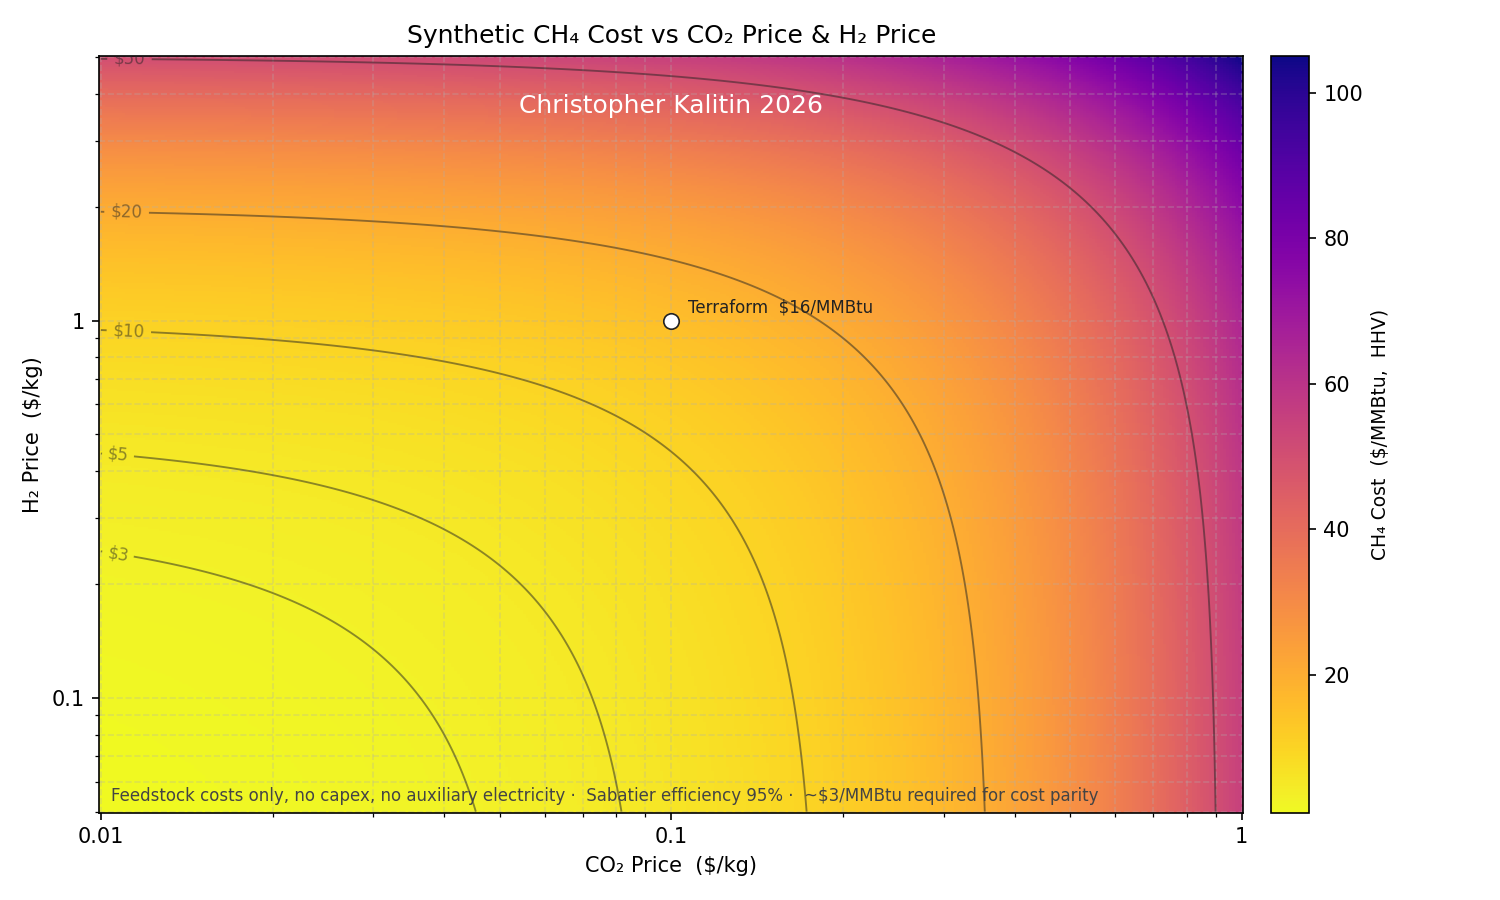
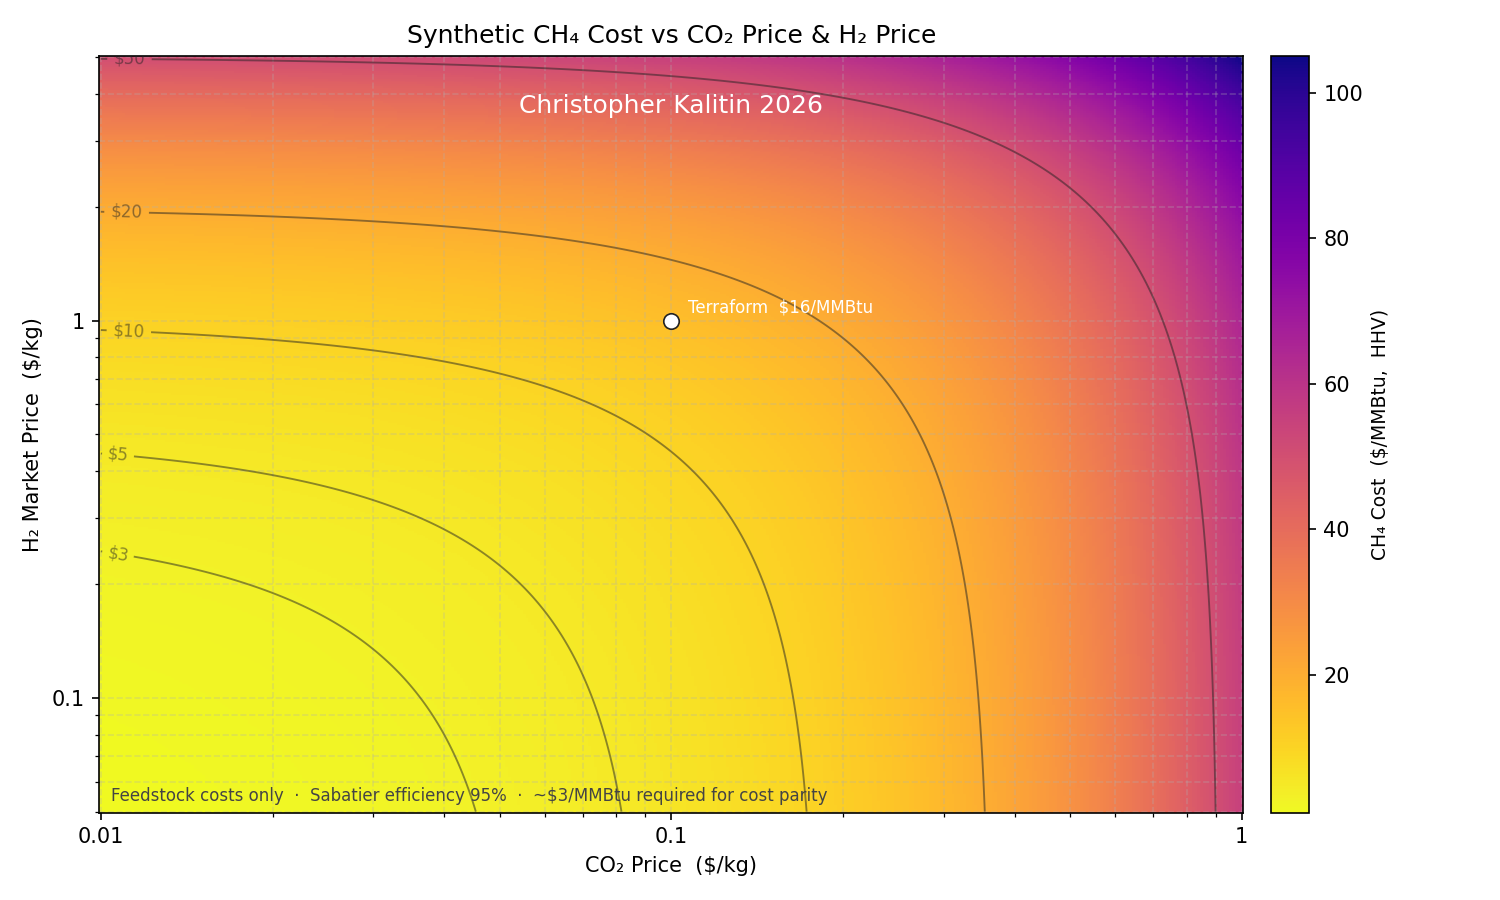
methanol is the answer

diff --git a/Terraformer-Economics/terraformer/methanol-vs-inputs-cost.py b/Terraformer-Economics/terraformer/methanol-vs-inputs-cost.py
@@ -1,10 +1,10 @@
 """
-Terraformer Cost Estimation  —  Synthetic CH4 Production Cost
-Sabatier methanation  +  green hydrogen  +  DAC-derived CO2
+Terraformer Cost Estimation  —  Synthetic Methanol Production Cost
+Direct CO2 hydrogenation  +  green hydrogen  +  DAC-derived CO2
 
-Chart: CH4 cost ($/MMBtu, HHV) heatmap over CO2 price and H2 price
+Chart: Methanol cost ($/MT) heatmap over CO2 price and H2 price
        Feedstock costs only — no capex, no auxiliary electricity
-       CO2 range: $0 – $1/kg    H2 range: $0 – $5/kg
+       CO2 range: $0.01 – $1/kg    H2 range: $0.05 – $5/kg
 """
 
 import os
@@ -17,47 +17,44 @@ os.makedirs(RESULTS_DIR, exist_ok=True)
 
 
 # ============================================================
-# PHYSICAL CONSTANTS  —  Sabatier: CO2 + 4 H2 → CH4 + 2 H2O
+# PHYSICAL CONSTANTS  —  CO2 + 3 H2 → CH3OH + H2O
 # ============================================================
-MW_CH4 = 16.0   # g/mol
-MW_CO2 = 44.0   # g/mol
-MW_H2  =  2.0   # g/mol
+MW_CH3OH = 32.0   # g/mol  (12 + 4 + 16)
+MW_CO2   = 44.0   # g/mol
+MW_H2    =  2.0   # g/mol
 
-# Stoichiometric feedstock per kg CH4 produced (from molar ratios)
-H2_STOICH_KG_PER_KG_CH4  = (4 * MW_H2) / MW_CH4   # = 0.500 kg H2  / kg CH4
-CO2_STOICH_KG_PER_KG_CH4 = MW_CO2      / MW_CH4   # = 2.750 kg CO2 / kg CH4
+# Stoichiometric feedstock per kg methanol produced (from molar ratios)
+H2_STOICH_KG_PER_KG_MEOH  = (3 * MW_H2) / MW_CH3OH   # = 0.1875 kg H2  / kg MeOH
+CO2_STOICH_KG_PER_KG_MEOH = MW_CO2      / MW_CH3OH   # = 1.3750 kg CO2 / kg MeOH
 
-# Energy unit conversion: $/kg CH4  →  $/MMBtu
-CH4_HHV_MJ_PER_KG = 55.5                              # Higher Heating Value of CH4 (MJ/kg)
-MMBTU_IN_MJ        = 1055.06                           # 1 MMBtu = 1055.06 MJ
-KG_CH4_PER_MMBTU   = MMBTU_IN_MJ / CH4_HHV_MJ_PER_KG  # = 19.01 kg CH4 / MMBtu
-# Conversion:  $/MMBtu = ($/kg CH4) × KG_CH4_PER_MMBTU
+KG_PER_MT = 1000.0   # 1 metric tonne = 1000 kg
 
 
 # ============================================================
 # PROCESS PARAMETERS
 # ============================================================
-SABATIER_EFFICIENCY = 0.95
-# Fraction of feedstock that converts to CH4.  Unreacted fraction lost.
-# actual feed = stoichiometric / SABATIER_EFFICIENCY  (+5.3% vs perfect stoich.)
+METHANOL_EFFICIENCY = 0.95
+# Fraction of feedstock that converts to methanol.  Unreacted fraction lost.
+# This is the methanol synthesis reactor step only (electrolysis not included).
+# actual feed = stoichiometric / METHANOL_EFFICIENCY  (+5.3% vs perfect stoich.)
 
 
 # ============================================================
-# COST FUNCTION  (feedstock only, $/MMBtu HHV)
+# COST FUNCTION  (feedstock only, $/MT methanol)
 # ============================================================
-def ch4_feedstock_cost_mmbtu(co2_price_kg, h2_price_kg):
+def meoh_feedstock_cost_per_mt(co2_price_kg, h2_price_kg):
     """
-    CH4 production cost from feedstocks only  ($/MMBtu, HHV).
+    Methanol production cost from feedstocks only  ($/MT methanol).
 
-    H2 term:   (H2_STOICH / eff) × h2_price      [$/kg CH4]
-    CO2 term:  (CO2_STOICH / eff) × co2_price     [$/kg CH4]
-    Sum multiplied by KG_CH4_PER_MMBTU to convert to $/MMBtu.
+    H2 term:   (H2_STOICH / eff) × h2_price      [$/kg MeOH]
+    CO2 term:  (CO2_STOICH / eff) × co2_price     [$/kg MeOH]
+    Sum multiplied by KG_PER_MT to convert to $/MT.
 
     No capex, no auxiliary electricity — pure feedstock sensitivity.
     """
-    h2_cost_kg  = h2_price_kg  * (H2_STOICH_KG_PER_KG_CH4  / SABATIER_EFFICIENCY)
-    co2_cost_kg = co2_price_kg * (CO2_STOICH_KG_PER_KG_CH4 / SABATIER_EFFICIENCY)
-    return (h2_cost_kg + co2_cost_kg) * KG_CH4_PER_MMBTU
+    h2_cost_kg  = h2_price_kg  * (H2_STOICH_KG_PER_KG_MEOH  / METHANOL_EFFICIENCY)
+    co2_cost_kg = co2_price_kg * (CO2_STOICH_KG_PER_KG_MEOH / METHANOL_EFFICIENCY)
+    return (h2_cost_kg + co2_cost_kg) * KG_PER_MT
 
 
 # ============================================================
@@ -68,33 +65,20 @@ co2_grid = np.logspace(-2, 0,          400)   # $0.01 – $1/kg CO2
 h2_grid  = np.logspace(np.log10(0.05), np.log10(5), 400)  # $0.05 – $5/kg H2
 
 CO2, H2 = np.meshgrid(co2_grid, h2_grid)
-Z = ch4_feedstock_cost_mmbtu(CO2, H2)
 
 # Terraform reference point
 TERRAFORM_CO2 = 0.1   # $/kg CO2
 TERRAFORM_H2  = 1.0   # $/kg H2
 
-# Contour levels: nat gas benchmarks ($/MMBtu)
-# $5    ≈ Henry Hub / cheap domestic gas
-# $10   ≈ moderate LNG export-parity price
-# $20   ≈ elevated European winter gas
-# $50   ≈ 2022 EU gas crisis peak
-# ($1 line omitted — it falls entirely in the bottom-left corner of the log grid)
-CONTOUR_LEVELS = [3, 5, 10, 20, 50]
-CONTOUR_FMT    = {v: f'${v:g}' for v in CONTOUR_LEVELS}
-
-# Manual label positions (data coords, one per level in the same order).
-# Computed to lie on each contour:  h2 = (Z/KG_CH4_PER_MMBTU - co2*CO2_FACTOR) / H2_FACTOR
-# Placing mid-chart so each line has enough room for the label.
-CONTOUR_LABEL_POS = [(0.028, 0.35), (0.04, 0.78), (0.06, 1.67), (0.20, 3.90)]
-
-
-# Export configurations: (filename, h2_tax_credit $/kg)
-# h2_tax_credit shifts the effective H2 cost downward (floor 0).
-# The y-axis still shows the market H2 price you pay before the credit.
+# Contour levels: methanol market benchmarks ($/MT)
+# $300  ≈ conventional (coal-based, China)
+# $400  ≈ typical international spot price
+# $600  ≈ moderate green methanol premium
+# $1000 ≈ high-cost green methanol
+# $2000 ≈ extreme cost scenario
 exports = [
-    ('ch4_cost_vs_inputs.png',     0.0, [3, 5, 10, 20, 50]),          # no credit
-    ('ch4_cost_vs_inputs_45V.png', 3.0, [-25, -20, -10, 0, 10]),      # IRA 45V
+    ('methanol_cost_vs_inputs.png',     0.0, [200, 400, 600, 1000]),   # no credit
+    ('methanol_cost_vs_inputs_45V.png', 3.0, [-500, -400, -200, 0, 200, 400, 600]),      # IRA 45V
 ]
 
 
@@ -103,7 +87,7 @@ exports = [
 # ============================================================
 def build_chart(h2_credit, filename, contour_levels):
     H2_EFF      = H2 - h2_credit
-    Z           = ch4_feedstock_cost_mmbtu(CO2, H2_EFF)
+    Z           = meoh_feedstock_cost_per_mt(CO2, H2_EFF)
     contour_fmt = {v: f'${v:g}' for v in contour_levels}
 
     fig, ax = plt.subplots(figsize=(10, 6))
@@ -118,7 +102,7 @@ def build_chart(h2_credit, filename, contour_levels):
 
     pcm  = ax.pcolormesh(CO2, H2, Z, cmap='plasma_r', shading='auto', zorder=0)
     cbar = fig.colorbar(pcm, ax=ax, pad=0.02)
-    cbar.set_label('CH₄ Cost  ($/MMBtu,  HHV)', fontsize=9)
+    cbar.set_label('Methanol Cost  ($/MT)', fontsize=9)
 
     # Contour lines — drawn after log scale is set so label placement uses log coords
     cs = ax.contour(CO2, H2, Z, levels=contour_levels,
@@ -126,18 +110,18 @@ def build_chart(h2_credit, filename, contour_levels):
     ax.clabel(cs, fmt=contour_fmt, fontsize=8, inline=True, inline_spacing=2)
 
     # Terraform reference point — cost uses effective H2 price after credit
-    terraform_h2_eff  = TERRAFORM_H2 - h2_credit
-    terraform_cost    = ch4_feedstock_cost_mmbtu(TERRAFORM_CO2, terraform_h2_eff)
+    terraform_h2_eff = TERRAFORM_H2 - h2_credit
+    terraform_cost   = meoh_feedstock_cost_per_mt(TERRAFORM_CO2, terraform_h2_eff)
     ax.scatter(TERRAFORM_CO2, TERRAFORM_H2, color='white', s=55, zorder=6,
                edgecolors='#222222', linewidths=0.8)
-    ax.annotate(f'Terraform  ${terraform_cost:.0f}/MMBtu',
+    ax.annotate(f'Terraform  ${terraform_cost:.0f}/MT',
                 xy=(TERRAFORM_CO2, TERRAFORM_H2), xycoords='data',
                 xytext=(8, 4), textcoords='offset points',
                 fontsize=8, color='white', ha='left')
 
     ax.set_xlabel('CO₂ Price  ($/kg)')
     ax.set_ylabel('H₂ Market Price  ($/kg)')
-    ax.set_title('Synthetic CH₄ Cost vs CO₂ Price & H₂ Price')
+    ax.set_title('Synthetic Methanol Cost vs CO₂ Price & H₂ Price')
     ax.grid(True, which='both', linestyle='--', alpha=0.3, zorder=1)
 
     # Watermark
@@ -146,7 +130,7 @@ def build_chart(h2_credit, filename, contour_levels):
             ha='center', va='top')
 
     # Notes
-    note = f'Feedstock costs only  ·  Sabatier efficiency {SABATIER_EFFICIENCY*100:.0f}%  ·  ~$3/MMBtu required for cost parity'
+    note = (f'Feedstock costs only  ·  Methanol synthesis efficiency {METHANOL_EFFICIENCY*100:.0f}%')
     if h2_credit > 0:
         note += f'\n45V H₂ tax credit applied: ${h2_credit:g}/kg'
     ax.text(0.01, 0.01, note,
